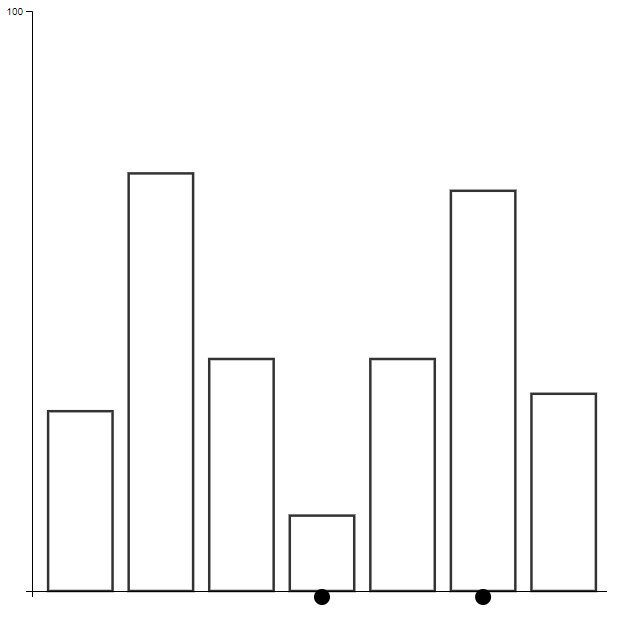
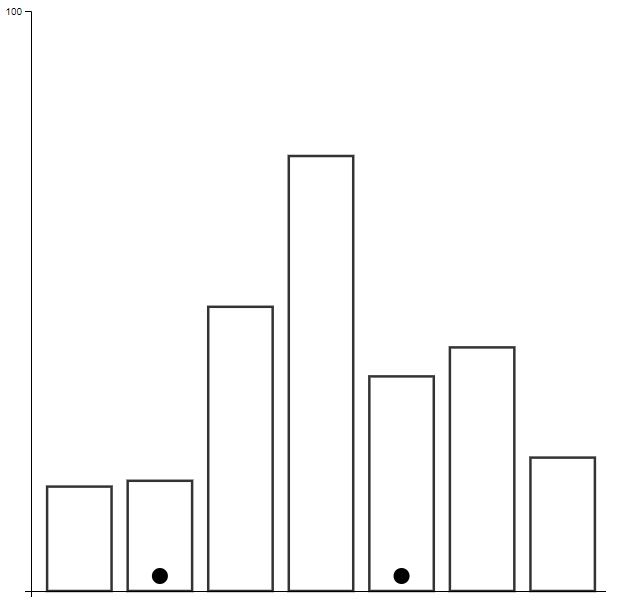
updated BarChart dots

Changed region(s): [[0.0, 0.0, 0.9854, 0.9967]]

diff --git a/public/Vis/BarChart.js b/public/Vis/BarChart.js
@@ -99,7 +99,7 @@ class BarChart extends Chart
         {
             this.svg.append("circle")
                 .attr("cx", x(this.features[i]) + x.bandwidth() / 2)
-                .attr("cy", this.height + 6)
+                .attr("cy", this.height - 15)
                 .attr("r", 8)
                 .attr("fill", "black");
         }
